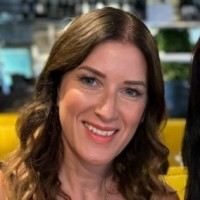
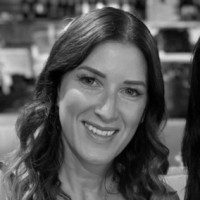
Checkpoint: Added Will Barritt and Lauren Windsor photos, converted all team member photos to black and white for professional consistency

diff --git a/client/src/pages/Team.tsx b/client/src/pages/Team.tsx
@@ -19,8 +19,8 @@ export default function Team() {
     { name: "Denise Stupart", role: "Commercial Partner", photo: "/denise.png" },
     { name: "Lorna Butler", role: "Commercial Partner", photo: "/lorna.png" },
     { name: "James Morris", role: "Commercial Partner", photo: "/james.png" },
-    { name: "Lauren Windsor", role: "Marketing Executive" },
-    { name: "Will Barritt", role: "RL Community Manager" },
+    { name: "Lauren Windsor", role: "Marketing Executive", photo: "/lauren.png" },
+    { name: "Will Barritt", role: "RL Community Manager", photo: "/will.png" },
     { name: "Megan Thomson", role: "RL Global Events Manager", photo: "/megan.png" },
   ];
 
